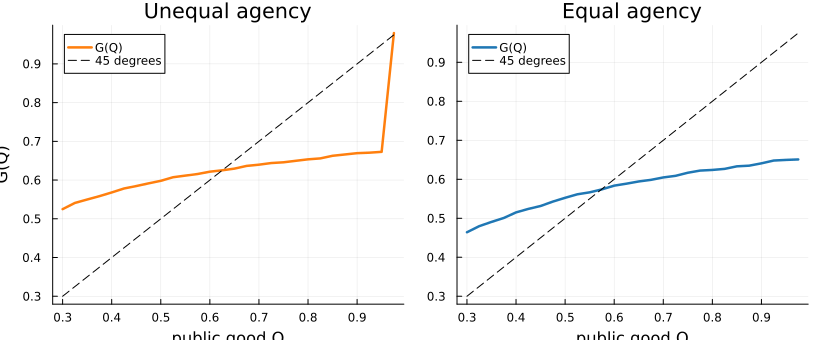
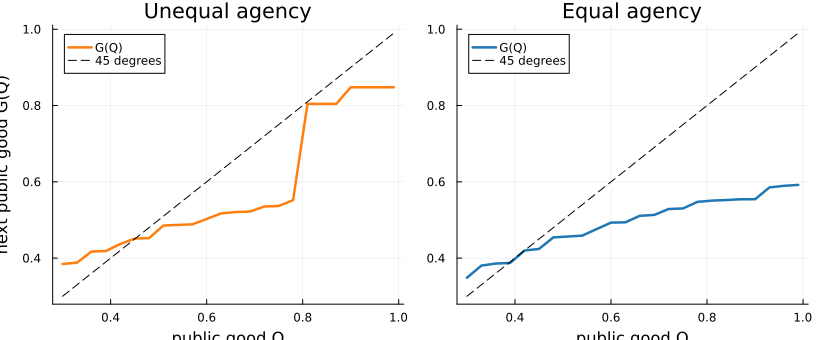
Tighten lead paper: attribute tipping to agency inequality; relabel preferences; own multiplier form

diff --git a/paper/sage_s.tex b/paper/sage_s.tex
@@ -129,14 +129,7 @@ Figure \ref{fig:bif} sweeps the social-return strength $\kappa$ and solves the p
 \label{fig:map}
 \end{figure}
 
-The multiplicity is an interaction with inequality, not a property of social cohesion alone. Figure \ref{fig:agency} makes this precise by comparing the public-good map under unequal and equal agency at the same social-return strength. With unequal agency the map is S-shaped and crosses the 45-degree line three times, the two stable equilibria with an unstable one between them. With equal agency the map is single-valued and crosses once, so the economy has a unique equilibrium at every strength. The coordination problem therefore exists only when the capacity to convert effort into income is unequally distributed. The reason is that higher-agency households have a high return to work and contribute little, so they form a swing group whose collective movement into contribution can sustain the high-cohesion equilibrium; without such a group there is no collective switch. This is the sense in which the result is a social-cohesion-times-agency interaction rather than a pure social-cohesion phenomenon, and it identifies inequality itself as the source of the coordination failure.
-
-\begin{figure}[t]
-\centering
-\includegraphics[width=0.92\textwidth]{figures/paper1_agency_map.png}
-\caption{The public-good map under unequal agency (left) and equal agency (right), at the same social-return strength. Unequal agency produces the S-shaped map with multiple equilibria; equal agency is single-valued. Agency inequality is what makes cohesion a coordination problem.}
-\label{fig:agency}
-\end{figure}
+The multiplicity is an interaction with inequality, not a property of social cohesion alone. Comparing the public-good map under unequal and equal agency at the same social-return strength makes this precise. With unequal agency the map is S-shaped and crosses the 45-degree line three times, the two stable equilibria with an unstable one between them. With equal agency the map is single-valued and crosses once, so the economy has a unique equilibrium at every strength. The coordination problem therefore exists only when the capacity to convert effort into income is unequally distributed. The reason is that higher-agency households have a high return to work and contribute little, so they form a swing group whose collective movement into contribution can sustain the high-cohesion equilibrium; without such a group there is no collective switch. This is the sense in which the result is a social-cohesion-times-agency interaction rather than a pure social-cohesion phenomenon, and it identifies inequality itself as the source of the coordination failure.
 
 Figure \ref{fig:who} identifies the coordinators. Lower-income households contribute a large share of their time in both equilibria; higher-income households contribute much less in the low-cohesion equilibrium and much more in the high-cohesion one. They are the marginal coordinators, because the opportunity cost of contributing is higher for them, so it is their behaviour that flips across the threshold.
 